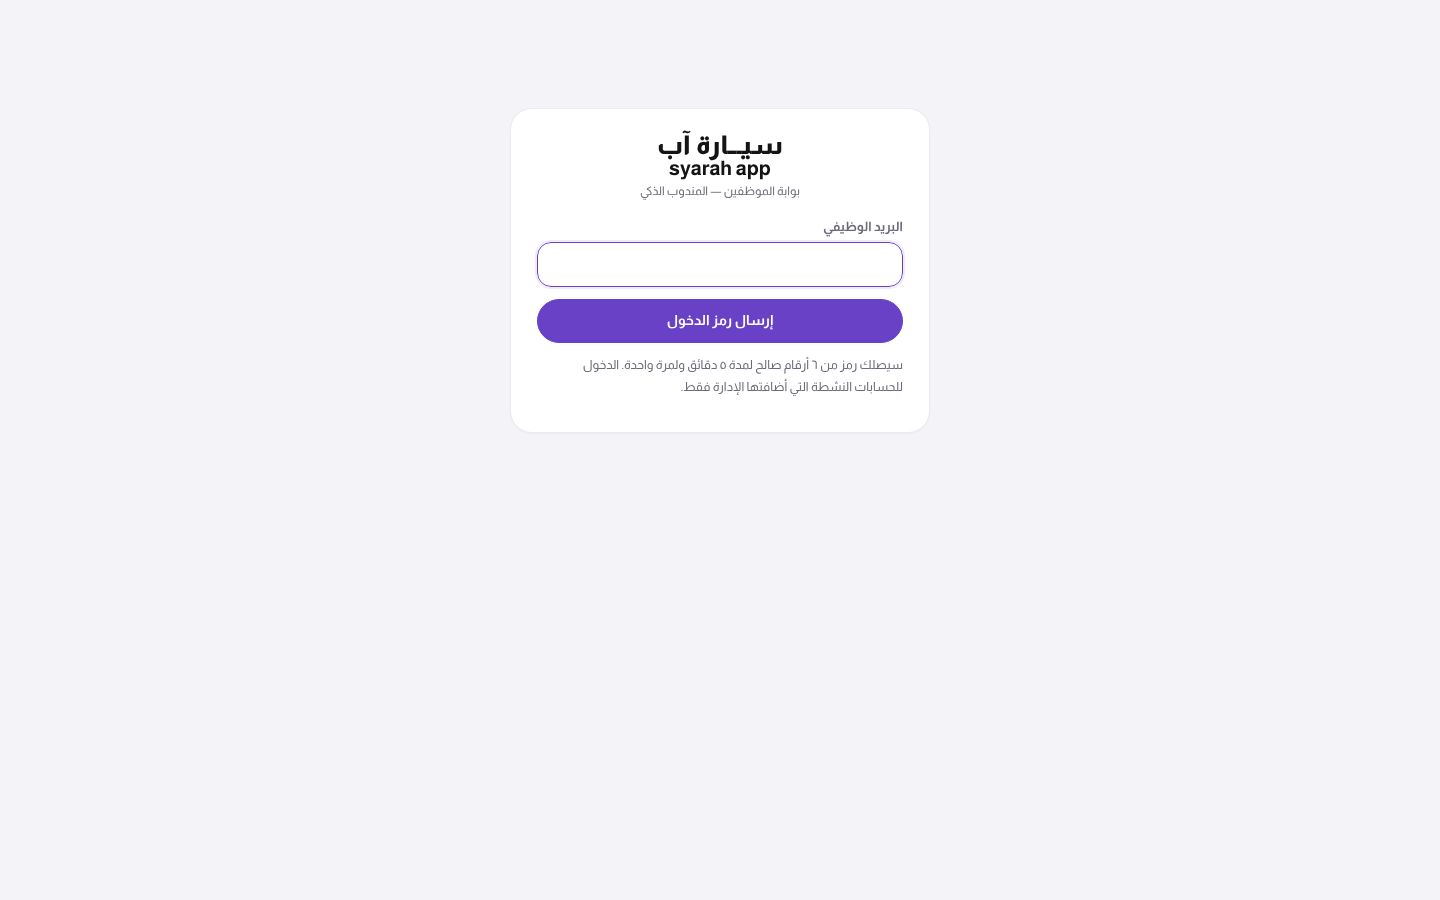
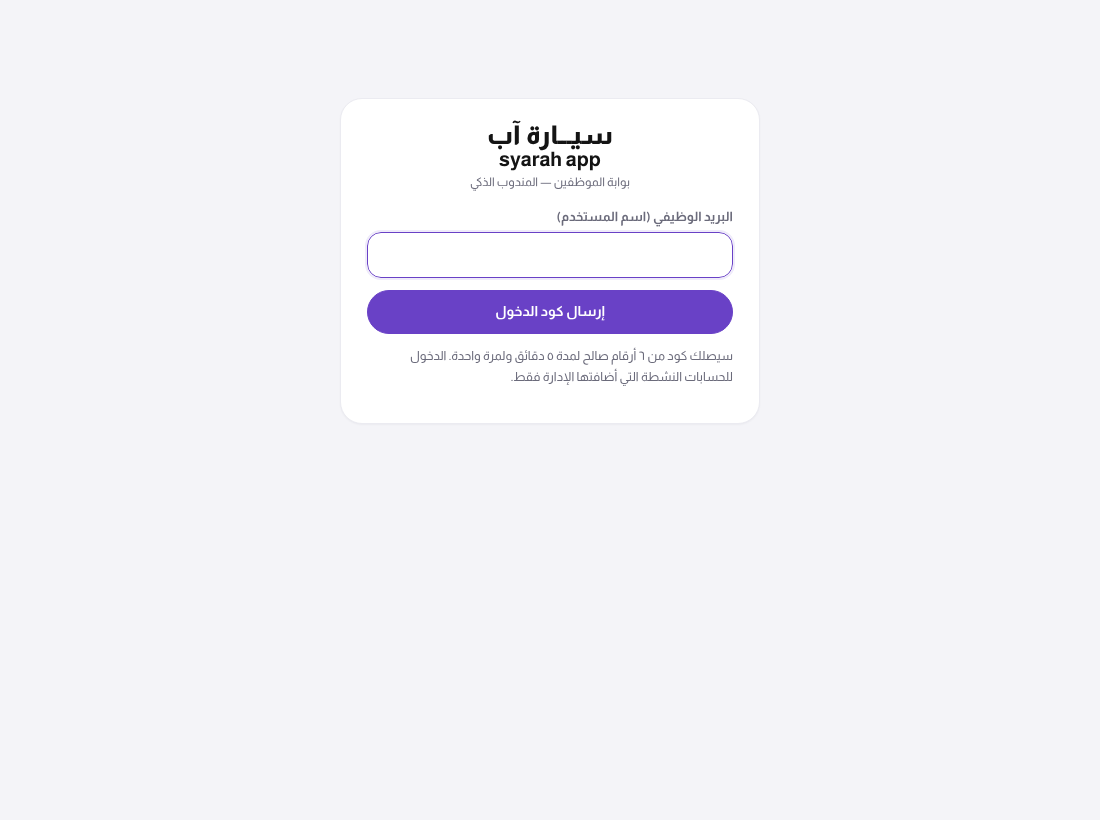
الدخول: البريد اسم المستخدم، تحقق صريح من التسجيل والتفعيل، وتسمية «كود الدخول»
Claude-Session: https://claude.ai/code/session_019G6pJzUSU4Z8Ekhc6SKmDc

Changed region(s): [[0.3091, 0.3049, 0.68, 0.4878], [0.4327, 0.1524, 0.68, 0.2744]]

diff --git a/mandoob/web/templates/otp_login.html b/mandoob/web/templates/otp_login.html
@@ -5,18 +5,18 @@
   <span class="tag">{{ 'بوابة الإدارة' if portal == 'admin' else 'بوابة الموظفين' }} — المندوب الذكي</span></div>
   {% if not step %}
   <form method="post" action="{{ base }}/request">
-    <div class="field"><label>البريد الوظيفي</label><input name="email" type="email" required autofocus class="ltr" style="text-align:left" autocomplete="email"></div>
-    <button class="btn p" style="width:100%">إرسال رمز الدخول</button>
+    <div class="field"><label>البريد الوظيفي (اسم المستخدم)</label><input name="email" type="email" required autofocus class="ltr" style="text-align:left" autocomplete="email"></div>
+    <button class="btn p" style="width:100%">إرسال كود الدخول</button>
   </form>
-  <p class="small muted" style="margin-top:12px">سيصلك رمز من ٦ أرقام صالح لمدة ٥ دقائق ولمرة واحدة. الدخول للحسابات النشطة التي أضافتها الإدارة فقط.</p>
+  <p class="small muted" style="margin-top:12px">سيصلك كود من ٦ أرقام صالح لمدة ٥ دقائق ولمرة واحدة. الدخول للحسابات النشطة التي أضافتها الإدارة فقط.</p>
   {% else %}
-  <p class="small">أُرسل الرمز إلى <b class="ltr">{{ step }}</b> إن كان مسجلًا ونشطًا.</p>
+  <p class="small">أُرسل الكود إلى <b class="ltr">{{ step }}</b>. افتح بريدك وأدخله هنا.</p>
   <form method="post" action="{{ base }}/verify">
-    <div class="field"><label>رمز الدخول</label><input name="code" inputmode="numeric" autocomplete="one-time-code" pattern="[0-9٠-٩ ]{6,8}" maxlength="8" required autofocus class="ltr" style="text-align:center;font-size:24px;letter-spacing:8px"></div>
+    <div class="field"><label>كود الدخول</label><input name="code" inputmode="numeric" autocomplete="one-time-code" pattern="[0-9٠-٩ ]{6,8}" maxlength="8" required autofocus class="ltr" style="text-align:center;font-size:24px;letter-spacing:8px"></div>
     <button class="btn p" style="width:100%">دخول</button>
   </form>
   <div class="row" style="margin-top:12px;justify-content:space-between">
-    <form method="post" action="{{ base }}/request"><input type="hidden" name="email" value="{{ step }}"><button class="btn sm">إرسال رمز جديد</button></form>
+    <form method="post" action="{{ base }}/request"><input type="hidden" name="email" value="{{ step }}"><button class="btn sm">إرسال كود جديد</button></form>
     <form method="post" action="{{ base }}/restart"><button class="btn sm">تغيير البريد</button></form>
   </div>
   {% endif %}
@@ -26,7 +26,7 @@
     <div class="field"><input name="email" type="email" placeholder="البريد" class="ltr" required></div>
     <div class="field"><input name="password" type="password" placeholder="كلمة المرور" required></div>
     <button class="btn" style="width:100%">دخول</button>
-    <p class="small muted">يُعطَّل تلقائيًا فور ربط بريد الشركة من «ربط بريد الشركة»، ويصبح الدخول برمز البريد فقط.</p>
+    <p class="small muted">يُعطَّل تلقائيًا فور ربط بريد الشركة من «ربط بريد الشركة»، ويصبح الدخول بكود البريد فقط.</p>
   </form></details>
   {% endif %}
 </div>

diff --git a/mandoob/auth.py b/mandoob/auth.py
@@ -84,6 +84,20 @@ class OTPError(Exception):
     pass
 
 
+def account_problem(s, email: str, portal: str) -> str | None:
+    """يتحقق أن البريد (اسم المستخدم) مسجّل ومفعّل ولهذه البوابة. يعيد رسالة المشكلة أو None."""
+    email = (email or "").strip().lower()
+    user = s.scalar(select(User).where(User.email == email))
+    if user is None:
+        return "هذا البريد غير مسجّل في المنصة. تواصل مع الإدارة لإضافتك."
+    if not user.active:
+        return "هذا الحساب موقوف. تواصل مع الإدارة."
+    if portal_of(user) != portal:
+        return ("هذا البريد لحساب إدارة — ادخل من بوابة الإدارة." if portal == "staff"
+                else "هذا البريد لحساب موظف — ادخل من بوابة الموظفين.")
+    return None
+
+
 def request_code(s, email: str, portal: str, ip_hash: str | None = None) -> tuple[User | None, str | None]:
     """يُنشئ رمزًا جديدًا (ويلغي السابق). يعيد (المستخدم، الرمز) أو (None، None) إن لم يكن الحساب مؤهلًا.
     الواجهة تعرض رسالة عامة واحدة في الحالتين حتى لا يُكشف وجود الحساب."""
@@ -146,13 +160,13 @@ def send_code_email(s, user: User, code: str, portal: str) -> bool:
     if acct is None:
         return False
     link = settings.public_base_url.rstrip("/") + ("/admin/login" if portal == "admin" else "/portal/login")
-    text = (f"مرحبًا {user.name}،\n\nرمز الدخول إلى {'بوابة الإدارة' if portal == 'admin' else 'بوابة الموظفين'} "
+    text = (f"مرحبًا {user.name}،\n\nكود الدخول إلى {'بوابة الإدارة' if portal == 'admin' else 'بوابة الموظفين'} "
             f"في مندوب سيارة آب الذكي:\n\n{code}\n\nصالح لمدة ٥ دقائق ولمرة واحدة. إن لم تطلبه فتجاهل هذه الرسالة.\n{link}")
-    html = (f"<div dir='rtl' style='font-family:Tahoma'><p>مرحبًا {user.name}،</p><p>رمز الدخول:</p>"
+    html = (f"<div dir='rtl' style='font-family:Tahoma'><p>مرحبًا {user.name}،</p><p>كود الدخول:</p>"
             f"<p style='font-size:28px;font-weight:bold;letter-spacing:6px'>{code}</p>"
             "<p>صالح لمدة ٥ دقائق ولمرة واحدة. إن لم تطلبه فتجاهل هذه الرسالة.</p></div>")
     res = get_provider(acct).send(OutgoingEmail(acct.sender_address, "مندوب سيارة آب الذكي", user.email,
-                                                f"رمز الدخول: {code}", text, html))
+                                                f"كود الدخول: {code}", text, html))
     return bool(res and res.accepted)
 
 
@@ -165,7 +179,7 @@ def send_invite_email(s, user: User) -> bool:
         return False
     link = settings.public_base_url.rstrip("/") + "/portal/login"
     text = (f"مرحبًا {user.name}،\n\nأُضيف حسابك إلى بوابة الموظفين في «مندوب سيارة آب الذكي».\n"
-            f"ادخل من الرابط التالي ببريدك الوظيفي، وسيصلك رمز دخول على هذا البريد:\n{link}")
+            f"ادخل من الرابط التالي ببريدك الوظيفي، وسيصلك كود دخول على هذا البريد — بلا كلمة مرور:\n{link}")
     html = (f"<div dir='rtl' style='font-family:Tahoma'><p>مرحبًا {user.name}،</p><p>أُضيف حسابك إلى بوابة الموظفين في "
             f"«مندوب سيارة آب الذكي».</p><p><a href='{link}'>الدخول إلى البوابة</a></p>"
             "<p>ادخل ببريدك الوظيفي، وسيصلك رمز دخول على هذا البريد.</p></div>")

diff --git a/mandoob/web/app.py b/mandoob/web/app.py
@@ -197,7 +197,11 @@ def staff_login_page(request: Request, s=Depends(get_db)):
 
 
 def _request_code(request: Request, portal: str, email: str, s):
-    from ..auth import OTPError, request_code, send_code_email
+    from ..auth import OTPError, account_problem, request_code, send_code_email
+    problem = account_problem(s, email, portal)
+    if problem:
+        flash(request, problem, "err")
+        return
     try:
         user, code = request_code(s, email, portal, _ip(request))
     except OTPError as e:
@@ -206,10 +210,10 @@ def _request_code(request: Request, portal: str, email: str, s):
     if user is not None and not send_code_email(s, user, code, portal):
         log.error("login code email failed for user %s", user.id)
         s.rollback()
-        flash(request, "تعذر إرسال الرمز لأن بريد الشركة غير مربوط بالمنصة. تواصل مع الإدارة.", "err")
+        flash(request, "تعذر إرسال الكود لأن بريد الشركة غير مربوط بالمنصة بعد. تواصل مع الإدارة.", "err")
         return
     request.session[f"otp_{portal}"] = email.strip().lower()
-    flash(request, "إذا كان البريد مسجلًا ونشطًا فسيصله رمز من ٦ أرقام صالح لمدة ٥ دقائق.")
+    flash(request, "أُرسل كود الدخول إلى بريدك. صالح لمدة ٥ دقائق ولمرة واحدة.")
 
 
 def _verify_code(request: Request, portal: str, code: str, s):

diff --git a/tests/test_portals.py b/tests/test_portals.py
@@ -208,3 +208,17 @@ def test_6_bootstrap_password_only_without_mail():
         assert r.headers["location"] == "/admin/login"
         assert c.get("/", follow_redirects=False).headers["location"] == "/admin/login"
         assert "دخول تأسيسي" not in c.get("/admin/login").text
+
+
+def test_7_email_is_username_clear_messages():
+    with TestClient(app) as c:
+        r = c.post("/portal/login/request", data={"email": "nobody@syarahapp.test"})
+        assert "غير مسجّل" in r.text and 'name="code"' not in r.text
+        r = c.post("/portal/login/request", data={"email": ADMIN})
+        assert "بوابة الإدارة" in r.text
+        r = c.post("/portal/login/request", data={"email": E2})  # منى موقوفة
+        assert "موقوف" in r.text
+        with session_scope() as s:
+            s.query(LoginCode).delete()  # الاختبار السابق استنفد حد الطلبات عمدًا
+        r = c.post("/portal/login/request", data={"email": E1.upper()})  # البريد لا يتأثر بحالة الأحرف
+        assert "أُرسل كود الدخول" in r.text and 'name="code"' in r.text and "password" not in r.text

diff --git a/tests/helpers.py b/tests/helpers.py
@@ -18,7 +18,7 @@ def last_code_for(email: str) -> str | None:
     files = sorted((ROOT / "outbox").glob("*.eml"), key=lambda p: p.stat().st_mtime_ns)
     for f in reversed(files):
         m = message_from_bytes(f.read_bytes(), policy=policy.default)
-        if str(m["To"]).strip().lower() == email.lower() and "رمز الدخول" in str(m["Subject"]):
+        if str(m["To"]).strip().lower() == email.lower() and "كود الدخول" in str(m["Subject"]):
             return re.search(r"(\d{6})", str(m["Subject"])).group(1)
     return None
 

diff --git a/README.md b/README.md
@@ -42,7 +42,7 @@
 | الموظفون | `/portal/login` | الموظفون الذين أضافتهم الإدارة: تفتح على «عملائي ومتابعاتي» حسب صلاحيات كل موظف |
 
 **الدخول:**
-- بالبريد الوظيفي ورمز من ٦ أرقام يصل إلى البريد، صالح ٥ دقائق ولمرة واحدة.
+- البريد الوظيفي هو اسم المستخدم: يكتبه الموظف ويضغط «إرسال كود الدخول»، فيتحقق النظام أنه مسجّل ومفعّل ولهذه البوابة، ثم يرسل كودًا من ٦ أرقام إلى نفس البريد، صالحًا ٥ دقائق ولمرة واحدة. بلا كلمة مرور، ولا يربط الموظف صندوق بريده بشيء؛ الكود يُرسل من صندوق الشركة الذي تربطه الإدارة مرة واحدة.
 - طلب رمز جديد يلغي السابق. ٥ محاولات خاطئة تُبطل الرمز، و١٠ في الساعة تقفل الحساب ساعة.
 - إعادة الإرسال محدودة بـ٣ رموز غير مستخدمة كل ١٥ دقيقة، مع حد لكل جهاز.
 - لا يكشف النظام هل البريد مسجل. ولا يدخل إلا حساب نشط أضافته الإدارة، فمشاركة الرابط وحدها لا تمنح وصولًا.
